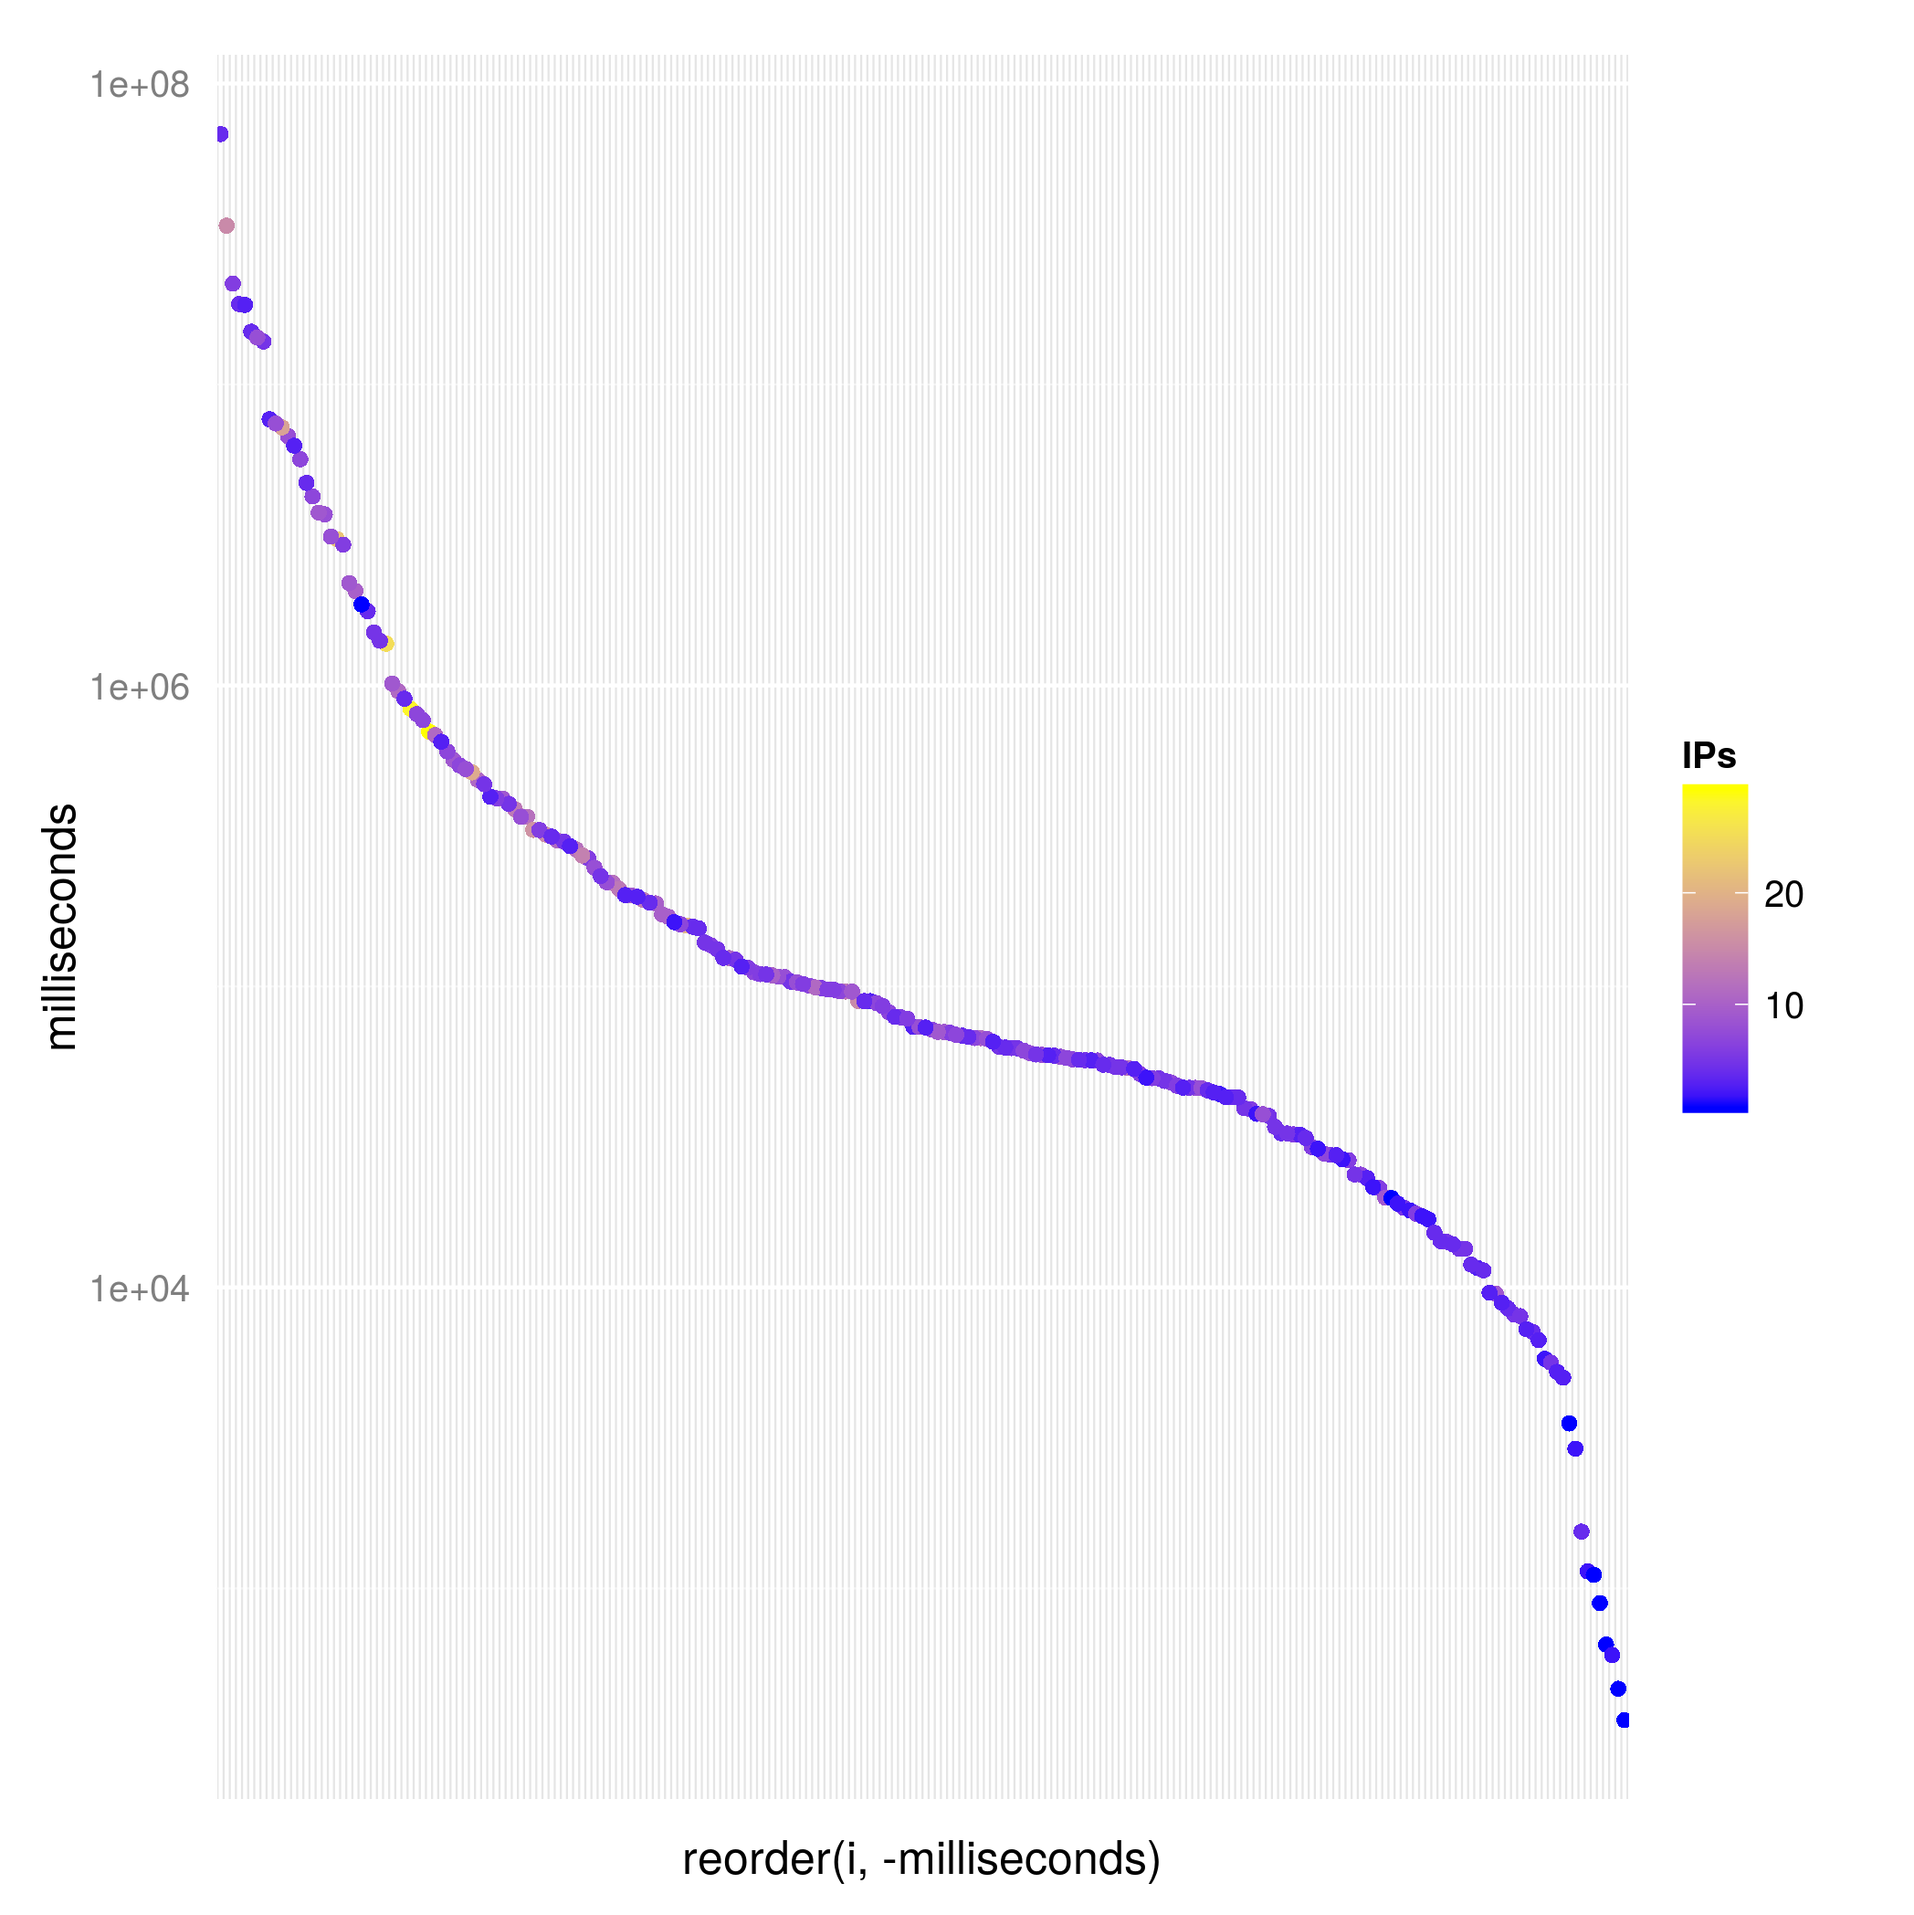
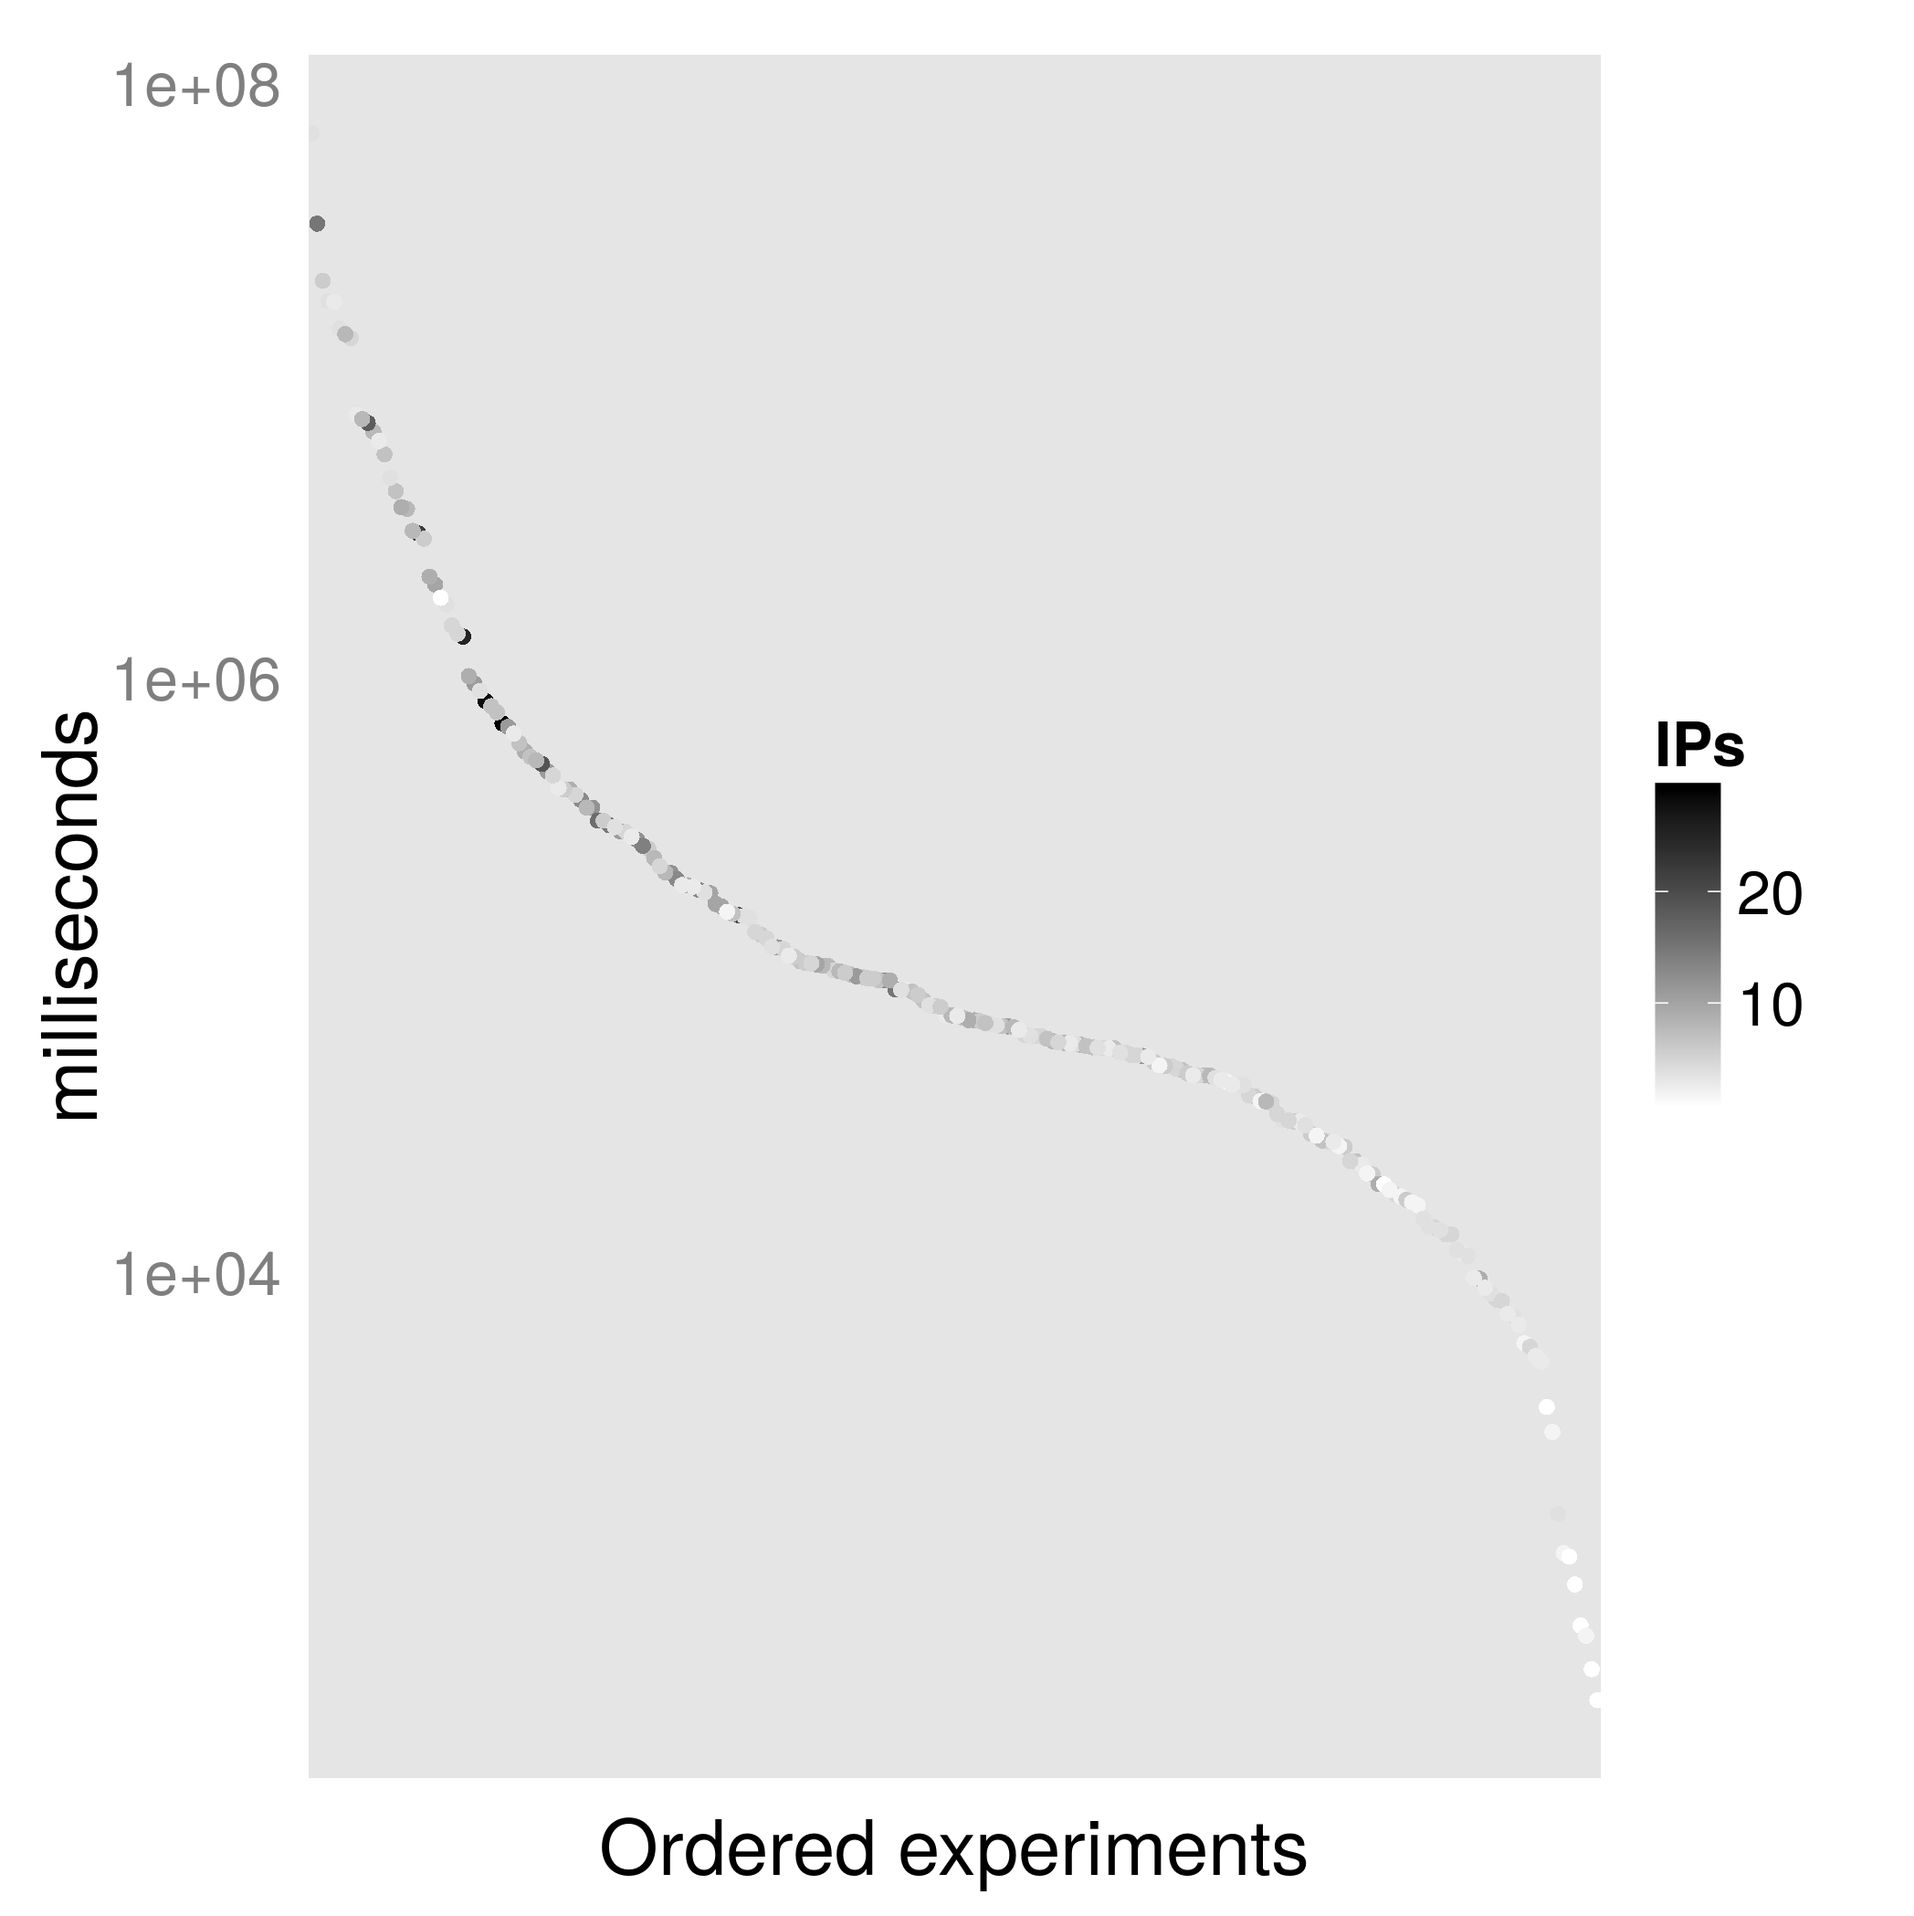
Fixing fig 4 closes #71 closes #70

diff --git a/special-issue-ci/volunteer-clouds-ieee-ci-si.tex b/special-issue-ci/volunteer-clouds-ieee-ci-si.tex
@@ -802,6 +802,7 @@ From left to right, experiments 4/4, 4/24 and 7/31.}
   participating in the experiment. From left to right, experiments
   4/4, 4/24 and 7/31.} 
 \label{fig:zipf:os}
+% computed via ../data/time-vs-IPs-openshift.png 
 \end{figure}
 %
 We will have to analyze experimental data a bit further to find out why
